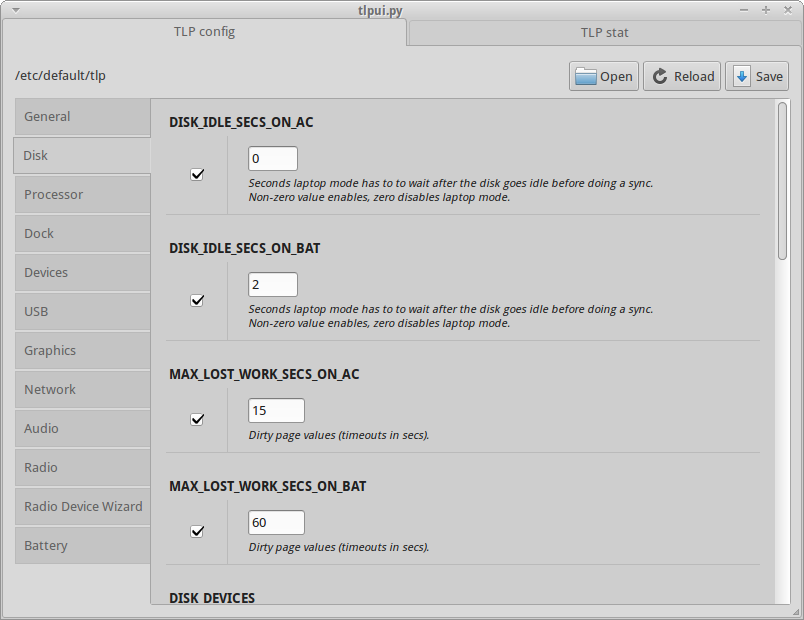
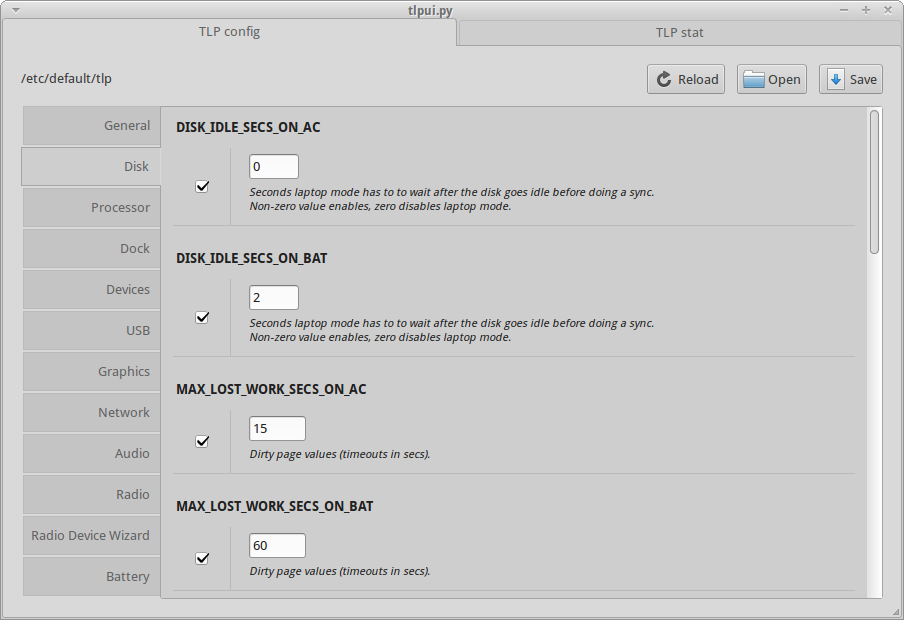
* Fixed file chooser config reload * Applied some Gnome HIG (Human Interface Guidelines)

diff --git a/ui.py b/ui.py
@@ -18,7 +18,9 @@ def close_window(self, event):
 
 
 def create_config_ui_box(tlpobject, objecttype, objectvalues, doc) -> Gtk.Box:
-    tlpuiobject = Gtk.Box()
+    tlpuiobject = Gtk.Box(orientation=Gtk.Orientation.HORIZONTAL, spacing=18)
+    tlpuiobject.set_margin_left(18)
+    tlpuiobject.set_margin_right(18)
 
     configuibox = Gtk.Box(orientation=Gtk.Orientation.VERTICAL, spacing=0)
     statetogglebox = Gtk.Box(orientation=Gtk.Orientation.VERTICAL, spacing=0)
@@ -50,29 +52,29 @@ def create_config_ui_box(tlpobject, objecttype, objectvalues, doc) -> Gtk.Box:
     elif (objecttype == 'numeric'):
         configwidget = gtkspinbutton.create_numeric_spinbutton(objectvalues, tlpobject)
 
-    configwidget.set_margin_top(10)
-    configwidget.set_margin_bottom(5)
+    configwidget.set_margin_top(6)
+    configwidget.set_margin_bottom(6)
     configwidget.set_halign(Gtk.Align.START)
     configwidget.set_valign(Gtk.Align.START)
 
     # object label
     configlabel = Gtk.Label(' <b>' + tlpobject.get_name() + '</b> ', xalign=0)
     configlabel.set_use_markup(True)
-    configlabel.set_margin_bottom(5)
+    configlabel.set_margin_bottom(12)
 
     # object description
     configdescriptionlabel = Gtk.Label('<i><small>' + doc + '</small></i>', xalign=0)
     configdescriptionlabel.set_line_wrap(True)
     configdescriptionlabel.set_use_markup(True)
-    configdescriptionlabel.set_margin_bottom(10)
+    configdescriptionlabel.set_margin_bottom(12)
 
     # combine boxes
     tlpconfigbox.pack_start(configwidget, True, True, 0)
     tlpconfigbox.pack_start(configdescriptionlabel, True, True, 0)
 
-    tlpuiobject.pack_start(statetogglebox, False, False, 20)
+    tlpuiobject.pack_start(statetogglebox, False, False, 0)
     tlpuiobject.pack_start(vseparator, False, False, 0)
-    tlpuiobject.pack_start(tlpconfigbox, True, True, 20)
+    tlpuiobject.pack_start(tlpconfigbox, True, True, 0)
 
     configuibox.pack_start(configlabel, False, False, 0)
     configuibox.pack_start(tlpuiobject, True, True, 0)
@@ -90,7 +92,7 @@ def create_tlp_ui_categories(tlpconfig) -> OrderedDict:
 
     for category in categories:
         label = category['name']
-        categorybox = Gtk.Box(orientation=Gtk.Orientation.VERTICAL, spacing=10)
+        categorybox = Gtk.Box(orientation=Gtk.Orientation.VERTICAL, spacing=12)
 
         configs = category['configs']
         for config in configs:
@@ -103,9 +105,9 @@ def create_tlp_ui_categories(tlpconfig) -> OrderedDict:
                 configid = item.get_name()
                 if configid == id:
                     configbox = create_config_ui_box(item, type, values, description)
-                    configbox.set_margin_left(15)
-                    configbox.set_margin_right(15)
-                    configbox.set_margin_top(15)
+                    configbox.set_margin_left(12)
+                    configbox.set_margin_right(12)
+                    configbox.set_margin_top(12)
                     categorybox.pack_start(configbox, False, False, 0)
 
         propertyobjects[label] = categorybox
@@ -113,7 +115,7 @@ def create_tlp_ui_categories(tlpconfig) -> OrderedDict:
     return propertyobjects
 
 
-def open_file_chooser(self, fileentry):
+def open_file_chooser(self, fileentry, window):
     filechooser = Gtk.FileChooserDialog('Choose config file', None, Gtk.FileChooserAction.OPEN, (
         Gtk.STOCK_CANCEL, Gtk.ResponseType.CANCEL, Gtk.STOCK_OPEN, Gtk.ResponseType.OK))
     filechooser.set_local_only(True)
@@ -123,6 +125,8 @@ def open_file_chooser(self, fileentry):
         filepath = filechooser.get_filename()
         fileentry.set_text(filepath)
     filechooser.destroy()
+
+    load_tlp_config(self, fileentry.get_text, window)
 
 
 def load_tlp_config(self, filenamepointer, window):
@@ -171,18 +175,18 @@ def create_settings_box(window, configpath, tlp_config_items):
     fileentry.set_alignment(0, 0.5)
 
     filebutton = Gtk.Button(label=' Open', image=Gtk.Image(stock=Gtk.STOCK_OPEN))
-    filebutton.connect('clicked', open_file_chooser, fileentry)
+    filebutton.connect('clicked', open_file_chooser, fileentry, window)
 
     reloadbutton = Gtk.Button(label=' Reload', image=Gtk.Image(stock=Gtk.STOCK_REFRESH))
     reloadbutton.connect('clicked', load_tlp_config, fileentry.get_text, window)
     savebutton = Gtk.Button(label=' Save', image=Gtk.Image(stock=Gtk.STOCK_SAVE))
     savebutton.connect('clicked', save_tlp_config, fileentry.get_text, tlp_config_items, window)
 
-    settingsbox = Gtk.Box(orientation=Gtk.Orientation.HORIZONTAL, spacing=0)
-    settingsbox.pack_start(fileentry, True, True, 2)
-    settingsbox.pack_start(filebutton, False, False, 2)
-    settingsbox.pack_start(reloadbutton, False, False, 2)
-    settingsbox.pack_start(savebutton, False, False, 2)
+    settingsbox = Gtk.Box(orientation=Gtk.Orientation.HORIZONTAL, spacing=12)
+    settingsbox.pack_start(fileentry, True, True, 0)
+    settingsbox.pack_start(reloadbutton, False, False, 0)
+    settingsbox.pack_start(filebutton, False, False, 0)
+    settingsbox.pack_start(savebutton, False, False, 0)
 
     return settingsbox
 
@@ -195,11 +199,11 @@ def create_config_box(tlp_config_items) -> Gtk.Box:
     ui_categories = create_tlp_ui_categories(tlp_config_items)
     for label, configitem in ui_categories.items():
         categorylabel = Gtk.Label(label)
-        categorylabel.set_alignment(0, 0.5)
-        categorylabel.set_margin_top(5)
-        categorylabel.set_margin_bottom(5)
-        categorylabel.set_margin_left(5)
-        categorylabel.set_margin_right(5)
+        categorylabel.set_alignment(1, 0.5)
+        categorylabel.set_margin_top(6)
+        categorylabel.set_margin_bottom(6)
+        categorylabel.set_margin_left(6)
+        categorylabel.set_margin_right(6)
 
         viewport = Gtk.Viewport()
         viewport.set_name('categoryViewport')
@@ -211,7 +215,7 @@ def create_config_box(tlp_config_items) -> Gtk.Box:
         notebook.append_page(scroll, categorylabel)
 
     containerbox = Gtk.Box(orientation=Gtk.Orientation.VERTICAL, spacing=0)
-    containerbox.pack_start(notebook, True, True, 2)
+    containerbox.pack_start(notebook, True, True, 0)
 
     return containerbox
 
@@ -225,19 +229,19 @@ def create_stat_box() -> Gtk.Box:
 
     emptylabel = Gtk.Label()
 
-    fetchbutton = Gtk.Button(label=' Fetch stats', image=Gtk.Image(stock=Gtk.STOCK_REFRESH))
+    fetchbutton = Gtk.Button(label=' Fetch stats', image=Gtk.Image(stock=Gtk.STOCK_CONVERT))
     fetchbutton.connect('clicked', fetch_tlp_stat, textbuffer)
 
     buttonbox = Gtk.Box(orientation=Gtk.Orientation.HORIZONTAL, spacing=0)
-    buttonbox.pack_start(emptylabel, True, True, 2)
-    buttonbox.pack_start(fetchbutton, False, False, 2)
+    buttonbox.pack_start(emptylabel, True, True, 0)
+    buttonbox.pack_start(fetchbutton, False, False, 0)
 
-    statbox = Gtk.Box(orientation=Gtk.Orientation.VERTICAL, spacing=0)
-    statbox.set_margin_top(10)
-    statbox.set_margin_bottom(10)
-    statbox.set_margin_left(10)
-    statbox.set_margin_right(10)
-    statbox.pack_start(buttonbox, False, False, 5)
+    statbox = Gtk.Box(orientation=Gtk.Orientation.VERTICAL, spacing=12)
+    statbox.set_margin_top(18)
+    statbox.set_margin_bottom(18)
+    statbox.set_margin_left(18)
+    statbox.set_margin_right(18)
+    statbox.pack_start(buttonbox, False, False, 0)
     statbox.pack_start(textview, True, True, 0)
 
     return statbox
@@ -250,12 +254,12 @@ def create_content_box(window, configpath, tlp_config_items) -> Gtk.Box:
     settingsbox = create_settings_box(window, configpath, tlp_config_items)
     configbox = create_config_box(tlp_config_items)
 
-    contentbox = Gtk.Box(orientation=Gtk.Orientation.VERTICAL, spacing=0)
-    contentbox.set_margin_top(10)
-    contentbox.set_margin_bottom(10)
-    contentbox.set_margin_left(10)
-    contentbox.set_margin_right(10)
-    contentbox.pack_start(settingsbox, False, False, 5)
+    contentbox = Gtk.Box(orientation=Gtk.Orientation.VERTICAL, spacing=12)
+    contentbox.set_margin_top(18)
+    contentbox.set_margin_bottom(18)
+    contentbox.set_margin_left(18)
+    contentbox.set_margin_right(18)
+    contentbox.pack_start(settingsbox, False, False, 0)
     contentbox.pack_start(configbox, True, True, 0)
 
     configlabel = Gtk.Label('TLP config')

diff --git a/tlpui.py b/tlpui.py
@@ -14,7 +14,7 @@ defaultconfigpath = '/etc/default/tlp'
 tlpconfig = read_tlp_file_config(defaultconfigpath)
 
 window = Gtk.Window()
-window.set_default_size(800, 600)
+window.set_default_size(900, 600)
 window.add(create_content_box(window, defaultconfigpath, tlpconfig))
 window.connect('delete-event', Gtk.main_quit)
 window.connect('key-press-event', close_window)
